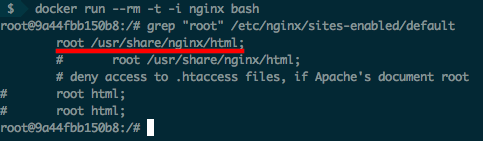
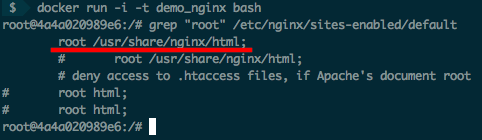
And again better docker configs

diff --git a/app/2014/docker-par-l-exemple/content.md b/app/2014/docker-par-l-exemple/content.md
@@ -68,11 +68,10 @@ RUN apt-get update
 RUN apt-get -y upgrade
 
 RUN apt-get -y install nginx-full
-RUN echo "daemon off;" >> /etc/nginx/nginx.conf
 
 EXPOSE 80
 
-CMD ["/usr/sbin/nginx", "-c", "/etc/nginx/nginx.conf"]
+CMD ["/usr/sbin/nginx", "-g", "daemon off;"]
 ```
 
 ???
@@ -90,7 +89,7 @@ s'arrête
 # On build !
 
 ```bash
-$ docker build -t nginx .
+$ docker build -t demo_nginx .
 ```
 
 --
@@ -114,7 +113,7 @@ name: run
 # On run !
 
 ```bash
-$ docker run -P nginx
+$ docker run -P demo_nginx
 ```
 
 ???
@@ -131,8 +130,8 @@ On regarde la vie de notre beau conteneur
 .small[
 ```bash
 $ docker ps
-CONTAINER ID        IMAGE               COMMAND                CREATED             STATUS              PORTS                   NAMES
-55f566619b84        nginx:latest        /usr/sbin/nginx -c     3 seconds ago       Up 2 seconds        0.0.0.0:49162->80/tcp   dreamy_jones
+CONTAINER ID        IMAGE                    COMMAND                CREATED             STATUS              PORTS                   NAMES
+55f566619b84        demo_nginx:latest        /usr/sbin/nginx -c     3 seconds ago       Up 2 seconds        0.0.0.0:49162->80/tcp   dreamy_jones
 ```
 ]
 
@@ -164,7 +163,7 @@ Où se trouve le `webroot` ?
 --
 
 ```bash
-$ docker run -i -t nginx bash
+$ docker run -i -t demo_nginx bash
 ```
 
 --
@@ -190,13 +189,12 @@ RUN apt-get update
 RUN apt-get -y upgrade
 
 RUN apt-get -y install nginx-full
-RUN echo "daemon off;" >> /etc/nginx/nginx.conf
 
 * RUN rm -rf /usr/share/nginx/html
 
 EXPOSE 80
 
-CMD ["/usr/sbin/nginx", "-c", "/etc/nginx/nginx.conf"]
+CMD ["/usr/sbin/nginx", "-g", "daemon off;"]
 ```
 
 ---
@@ -225,7 +223,7 @@ On créé un magnifique fichier HTML
 On relance un conteneur, en liant cette fois ci les volumes !
 
 ```bash
-$ docker run -P -v $(pwd):/usr/share/nginx/html nginx
+$ docker run -P -v $(pwd):/usr/share/nginx/html demo_nginx
 ```
 
 ???
@@ -272,7 +270,7 @@ On build, on run… On lie !
 # Lier les conteneurs
 
 ```bash
-$ docker run -P --link tender_bardeen:fpm nginx
+$ docker run -P --link tender_bardeen:fpm demo_nginx
 ```
 
 `tender_bardeen` est le nom de notre conteneur php-fpm, `fpm` est son alias au sein du conteneur nginx
@@ -291,7 +289,7 @@ Lorsque 2 conteneurs sont liés, des variables d'environnement "magiques" sont c
 --
 
 ```bash
-$ docker run -P --link tender_bardeen:fpm nginx env
+$ docker run -P --link tender_bardeen:fpm dmo_nginx env
 PATH=/usr/local/sbin:/usr/local/bin:/usr/sbin:/usr/bin:/sbin:/bin
 HOSTNAME=aab51d231030
 * FPM_PORT=tcp://172.17.0.32:9000
@@ -320,7 +318,6 @@ RUN apt-get update
 RUN apt-get -y upgrade
 
 RUN apt-get -y install nginx-full
-RUN echo "daemon off;" >> /etc/nginx/nginx.conf
 
 RUN rm -rf /usr/share/nginx/html
 * RUN rm /etc/nginx/sites-available/default
@@ -331,7 +328,7 @@ RUN rm -rf /usr/share/nginx/html
 
 EXPOSE 80
 
-CMD ["/usr/sbin/nginx", "-c", "/etc/nginx/nginx.conf"]
+CMD ["/usr/sbin/nginx", "-g", "daemon off;"]
 
 * ENTRYPOINT ["/init.sh"]
 ```
@@ -361,7 +358,7 @@ server {
         include fastcgi_params;
         fastcgi_param SCRIPT_FILENAME $document_root$fastcgi_script_name;
         fastcgi_index index.php;
-        fastcgi_pass {{FPM_IP}}:{{FPM_PORT}};
+        fastcgi_pass 127.0.0.1:9000;
     }
 }
 ```
@@ -377,7 +374,7 @@ server {
 
 sed -i "s/fastcgi_pass .*:.*;/fastcgi_pass $FPM_PORT_9000_TCP_ADDR:$FPM_PORT_9000_TCP_PORT;/" /etc/nginx/sites-available/default
 
-exec $@
+exec "$@"
 ```
 
 ???
@@ -399,8 +396,8 @@ phpinfo();
 # Le bouquet final
 
 ```bash
-$ docker run -P -v $(pwd):/usr/share/nginx/html -d --name fpm fpm
-$ docker run -P -v $(pwd):/usr/share/nginx/html -d --link fpm:fpm --name nginx nginx
+$ docker run -P -v $(pwd):/usr/share/nginx/html -d --name demo_fpm demo_fpm
+$ docker run -P -v $(pwd):/usr/share/nginx/html -d --link fpm:fpm --name demo_nginx demo_nginx
 ```
 
 ???
@@ -428,6 +425,10 @@ name: final
 --
 
 - [https://registry.hub.docker.com/](https://registry.hub.docker.com/)
+
+???
+
+- nginx officiel plutôt que build à la main
 
 ---
 
